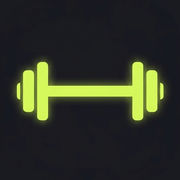
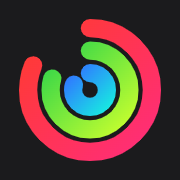
The rings: a new mark, and today as four rings on Home
The app icon is the ring mark now - favicon, apple-touch-icon and the 192,
512 and 1024 home-screen sizes, all generated from one SVG - and the app
carries its own manifest rather than the platform one, so the name on the
home screen is SOMA. The platform injects its own touch icon, so that file
carries the same mark instead of fighting it.

On Home, next to the coach brief: calories, protein, water and calories
burnt as four concentric rings, in the shape Apple settled on for exactly
this job - the legend on the right reads 2020/2300 CAL, 184/165 G,
2800/3500 ML, 0/500 CAL. Confirmed food only, like every other number in
this app that claims to be about what you ate; a ring that filled itself
from the plan would be a ring that lies. Burnt is the session gross, the
figure people mean when they say they burnt 400 calories.

diff --git a/src/components/ActivityRings.tsx b/src/components/ActivityRings.tsx
@@ -1,0 +1,152 @@
+import { useMemo } from "react";
+import { ChevronRight } from "lucide-react";
+import { CardTitle } from "@/components/ui/card";
+import { hasDetailRoom } from "@/lib/dashboard-layout";
+import { useWidgetSize } from "@/components/WidgetGrid";
+import { sessionBurn } from "@/lib/training-burn";
+import { totalWaterMl } from "@/lib/hydration";
+import { useSoma } from "@/lib/store";
+
+/**
+ * The day, as four rings.
+ *
+ * Calories, protein, water and calories burnt — the four numbers that decide
+ * whether a day went the way it was supposed to, in the shape Apple settled on
+ * for exactly this job. A ring reads a part-done day at a glance in a way a
+ * percentage does not: half a ring is half a ring, and the gap at the top is
+ * the thing still owed.
+ *
+ * It counts CONFIRMED food only, like every other number in this app that
+ * claims to be about what you ate — planned rows are not food yet, and a ring
+ * that filled itself from the plan would be a ring that lies.
+ *
+ * Burnt is the session's gross figure: what the workout cost, not what it cost
+ * above sitting still. It is the number people mean when they say they burnt
+ * 400 calories, and the net figure is already spoken for by the calorie target.
+ */
+
+/** Ring order is outer to inner, as on the home screen: the day's headline first. */
+const RINGS = [
+  { id: "cals", label: "Calories", unit: "CAL", colour: "#ff2d7a" },
+  { id: "protein", label: "Protein", unit: "G", colour: "#c8ff2e" },
+  { id: "water", label: "Water", unit: "ML", colour: "#19e3e3" },
+  { id: "burnt", label: "Burned", unit: "CAL", colour: "#ff9f0a" },
+] as const;
+
+/** What a day of training is meant to cost, when nothing else says. */
+const BURN_TARGET = 500;
+const FALLBACK_WATER = 3500;
+
+const BOX = 168;
+const CENTRE = BOX / 2;
+/** Outer to inner, with a gap between strokes wide enough to read as four. */
+const GEOMETRY = [
+  { r: 64, w: 15 },
+  { r: 46, w: 15 },
+  { r: 28, w: 15 },
+  { r: 10, w: 15 },
+];
+
+export function ActivityRings() {
+  const nutrition = useSoma((s) => s.nutrition);
+  const history = useSoma((s) => s.history);
+  const date = useSoma((s) => s.activeDate);
+  const setTab = useSoma((s) => s.setTab);
+  const size = useWidgetSize();
+
+  // The burn model needs a bodyweight, and the app only knows the ones that
+  // were weighed — the most recent of those, or its own assumed default.
+  const weight = useMemo(() => {
+    const dated = Object.keys(nutrition).filter((k) => nutrition[k]?.bodyWeight).sort();
+    return dated.length ? nutrition[dated[dated.length - 1]!]!.bodyWeight ?? 0 : 0;
+  }, [nutrition]);
+
+  const day = nutrition[date];
+  const eaten = day?.items ?? [];
+  const goals = day?.goals;
+
+  const values: Record<(typeof RINGS)[number]["id"], { value: number; goal: number }> = {
+    cals: { value: eaten.reduce((a, i) => a + (i.cals || 0), 0), goal: goals?.cals || 2400 },
+    protein: { value: eaten.reduce((a, i) => a + (i.p || 0), 0), goal: goals?.protein || 160 },
+    water: { value: totalWaterMl(day), goal: goals?.water || FALLBACK_WATER },
+    burnt: { value: sessionBurn(history[date], weight || undefined).gross, goal: BURN_TARGET },
+  };
+
+  return (
+    <button
+      type="button"
+      onClick={() => setTab("nutrition")}
+      className="block h-full w-full rounded-2xl border border-border bg-surface p-4 text-left shadow-card active:bg-surface-2"
+      aria-label={RINGS.map((r) => `${r.label} ${Math.round(values[r.id].value)} of ${Math.round(values[r.id].goal)}`).join(", ") + ". Opens Fuel."}
+    >
+      <CardTitle>
+        <span className="flex items-center gap-1">
+          Today
+          <ChevronRight className="size-3.5 text-faint" aria-hidden />
+        </span>
+      </CardTitle>
+
+      <div className="flex items-center gap-4">
+        <svg
+          viewBox={`0 0 ${BOX} ${BOX}`}
+          className="size-[132px] shrink-0 -rotate-90"
+          aria-hidden
+        >
+          {RINGS.map((ring, i) => {
+            const g = GEOMETRY[i]!;
+            const { value, goal } = values[ring.id];
+            const filled = goal > 0 ? Math.max(0, Math.min(1, value / goal)) : 0;
+            const circumference = 2 * Math.PI * g.r;
+            return (
+              <g key={ring.id}>
+                {/* The track, so an empty ring is still an empty ring rather
+                    than nothing at all. */}
+                <circle
+                  cx={CENTRE}
+                  cy={CENTRE}
+                  r={g.r}
+                  fill="none"
+                  stroke="var(--color-surface-3)"
+                  strokeWidth={g.w}
+                />
+                {filled > 0 && (
+                  <circle
+                    cx={CENTRE}
+                    cy={CENTRE}
+                    r={g.r}
+                    fill="none"
+                    stroke={ring.colour}
+                    strokeWidth={g.w}
+                    strokeLinecap="round"
+                    strokeDasharray={`${circumference * filled} ${circumference * 1.6}`}
+                    style={{ transition: "stroke-dasharray 320ms cubic-bezier(.2,.8,.2,1)" }}
+                  />
+                )}
+              </g>
+            );
+          })}
+        </svg>
+
+        {hasDetailRoom(size) && (
+          <div className="min-w-0 flex-1 space-y-1">
+            {RINGS.map((ring) => {
+              const { value, goal } = values[ring.id];
+              return (
+                <div key={ring.id} className="min-w-0">
+                  <div className="truncate text-[0.62rem] font-bold uppercase tracking-wide text-faint">
+                    {ring.label}
+                  </div>
+                  <div className="truncate text-[0.8rem] font-extrabold tabular" style={{ color: ring.colour }}>
+                    {Math.round(value)}
+                    <span className="text-faint">/{Math.round(goal)}</span>{" "}
+                    <span className="text-[0.6rem] font-bold">{ring.unit}</span>
+                  </div>
+                </div>
+              );
+            })}
+          </div>
+        )}
+      </div>
+    </button>
+  );
+}

diff --git a/src/components/views/DashboardView.tsx b/src/components/views/DashboardView.tsx
@@ -7,6 +7,7 @@ import { ProjectsCard } from "@/components/ProjectsCard";
 import { TodoCard } from "@/components/TodoCard";
 import { LogTheGap } from "@/components/LogTheGap";
 import { HabitRings } from "@/components/HabitRings";
+import { ActivityRings } from "@/components/ActivityRings";
 import { WidgetGrid, useWidgetSize } from "@/components/WidgetGrid";
 import { hasDetailRoom, hasFullRoom } from "@/lib/dashboard-layout";
 import { bodyweightOn, buildDayInputs, previousSameSplit } from "@/lib/day-inputs";
@@ -184,6 +185,7 @@ export function DashboardView() {
           the box it was given, and a bare wrapper would stretch instead of the
           card, leaving the card floating in a taller empty cell. */}
       <CoachBrief key="brief" horizon="today" />
+      <ActivityRings key="rings" />
       <ScoreCard key="score" score={score} lines={lines} />
 
       {/* The ticked ones are done — that is the whole point of a tile, and it

diff --git a/src/routes/__root.tsx b/src/routes/__root.tsx
@@ -26,8 +26,11 @@ export const Route = createRootRoute({
       // in dev and in the native webview, both of which serve from the root.
       { rel: "icon", type: "image/svg+xml", href: "/favicon.svg" },
       { rel: "stylesheet", href: appCss },
-      { rel: "manifest", href: "/__grok/manifest.webmanifest" },
-      { rel: "apple-touch-icon", href: "/__grok/icon-180.png" },
+      // The app's own manifest and icon, not the platform's. The home screen is
+      // where this app actually lives on a phone, and the mark sitting there
+      // should be the app's own.
+      { rel: "manifest", href: "/app.webmanifest" },
+      { rel: "apple-touch-icon", href: "/apple-touch-icon.png" },
       { rel: "preconnect", href: "https://fonts.googleapis.com" },
       { rel: "preconnect", href: "https://fonts.gstatic.com", crossOrigin: "anonymous" },
       {

diff --git a/src/lib/dashboard-layout.ts b/src/lib/dashboard-layout.ts
@@ -170,6 +170,7 @@ export const DASHBOARD_WIDGETS: WidgetDef[] = [
   // Full-width heights are floors, so it still grows when it has three things
   // to say.
   { id: "brief", label: "Coach brief", size: "1x4" },
+  { id: "rings", label: "Activity rings", size: "2x4" },
   { id: "score", label: "Today's score", size: "2x4" },
   { id: "cals", label: "Calories", size: "2x2" },
   { id: "protein", label: "Protein", size: "2x2" },
